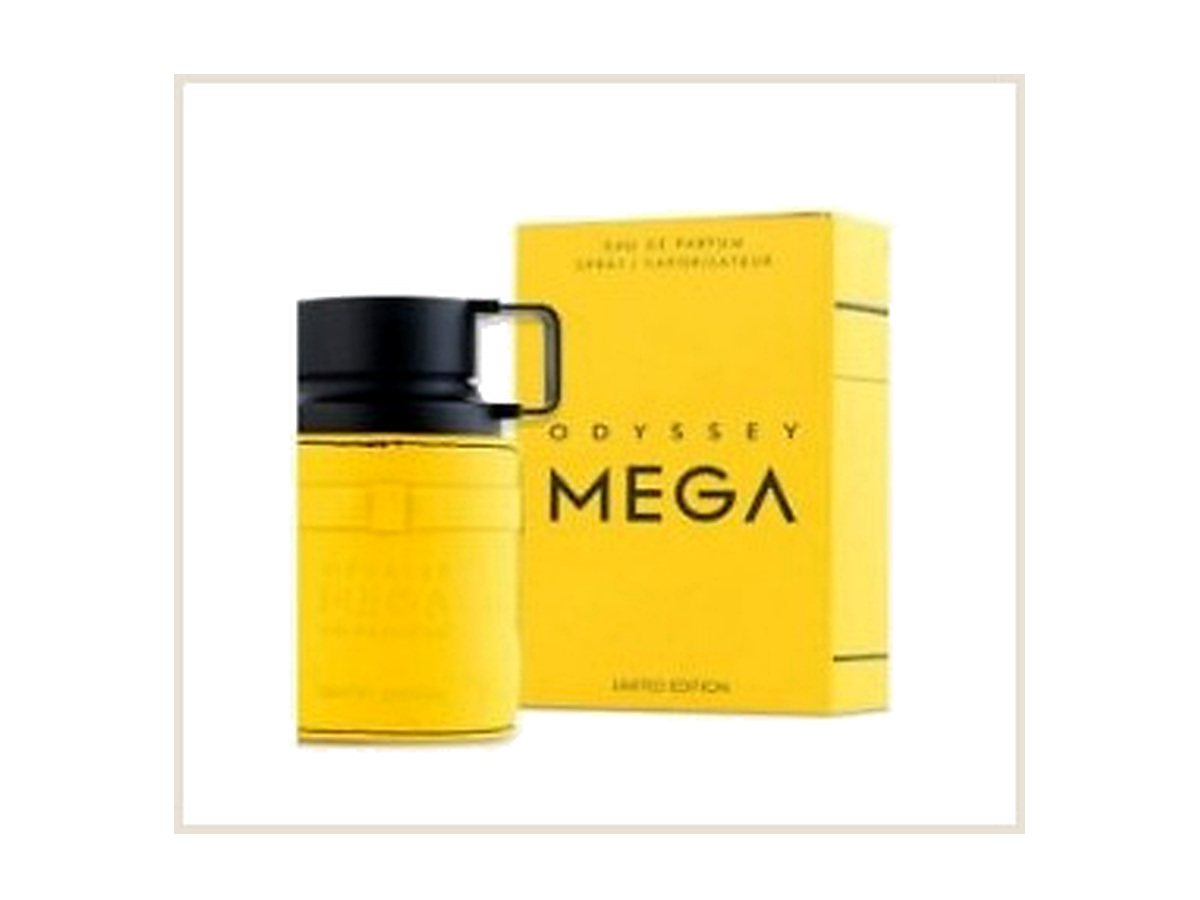
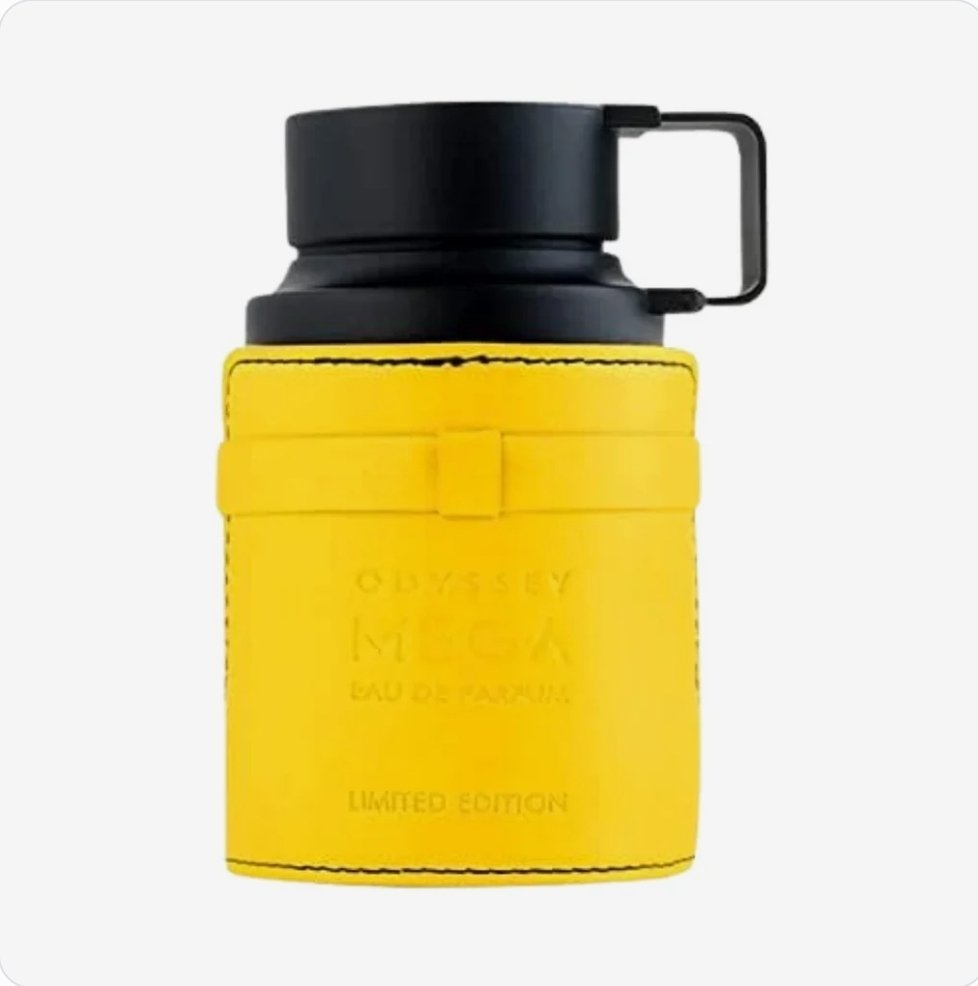
Replace Armaf Odyssey Mega photos with Boss's new shots

diff --git a/index.html b/index.html
@@ -698,7 +698,7 @@
         { name:'Lattafa Pride Peace & Love Perfume for Unisex', niche:'Lattafa Pride · Unisex · 3.4 oz EDP', direction:'Soft florals, creamy woods and amber', description:'A smooth, comforting blend of luminous florals, creamy woods and mellow amber. Refined and easygoing, with a softly enveloping trail.', category:'amber', images:[{src:'assets/product-lattafa-peace-love.jpg', alt:'Lattafa Pride Peace and Love bottle and box — clean packshot'}], price:34, decantPrice:9, originalPrice:40, featured:7, paymentLink:'https://buy.stripe.com/9B66oJ2Qx6jW1hE6Gvf7i1a'},
         { name:'Lattafa Yara Elixir Perfume for Women', niche:'Lattafa · Women · 3.4 oz EDP', direction:'Lush berries, vanilla and warm amber', description:'Juicy fruit and soft florals melt into creamy vanilla and warm amber. Sweet, playful and plush without losing its polished finish.', category:'sweet', images:[{src:'assets/lattafa-yara-elixir-1.jpg', alt:'Lattafa Yara Elixir bottle on a clean white background'},{src:'assets/lattafa-yara-elixir-2.jpg', alt:'Lattafa Yara Elixir bottle in a pink fragrance composition'},{src:'assets/lattafa-yara-elixir-3.jpg', alt:'Lattafa Yara Elixir bottle and box with berries, vanilla and caramel notes'},{src:'assets/lattafa-yara-elixir-4.jpg', alt:'Lattafa Yara Elixir bottle with berries, vanilla and caramel notes'}], price:39, decantPrice:10, originalPrice:44, featured:8, paymentLink:'https://buy.stripe.com/7sYfZjfDj0ZC3pMc0Pf7i1b' },
         { name:'Rasasi Hawas Fire Cologne for Men', niche:'Rasasi · Men · 3.38 oz EDP', direction:'Red fruits, aromatic freshness and woods', description:'A vibrant mix of juicy fruit and crisp aromatics gains depth from spice and polished woods. Fresh at first spray, then warmer and more intense.', category:'fresh', images:[{src:'assets/product-rasasi-hawas-fire.jpg', alt:'Rasasi Hawas Fire bottle and box — clean packshot'},{src:'assets/gallery-rasasi-hawas-fire-1.jpg', alt:'Rasasi Hawas Fire Cologne for Men — customer photo 1'},{src:'assets/gallery-rasasi-hawas-fire-2.jpg', alt:'Rasasi Hawas Fire Cologne for Men — customer photo 2'}], price:54, decantPrice:14, originalPrice:75, featured:9 , paymentLink:'https://buy.stripe.com/5kQfZj3UB5fS9Oa5Crf7i14'},
-        { name:'Armaf Odyssey Mega Cologne for Men', niche:'Armaf · Men · 3.4 oz EDP', direction:'Citrus, ginger and aromatic woods', description:'Zesty citrus and ginger create a brisk opening before aromatic herbs and clean woods take over. Modern, bright and made for everyday momentum.', category:'fresh', images:[{src:'assets/product-armaf-odyssey-mega.jpg', alt:'Armaf Odyssey Mega bottle and yellow box — clean packshot'}], price:31, decantPrice:8, originalPrice:38, featured:10 , paymentLink:'https://buy.stripe.com/eVqdRb0Ip7o0e4q7Kzf7i0Z'},
+        { name:'Armaf Odyssey Mega Cologne for Men', niche:'Armaf · Men · 3.4 oz EDP', direction:'Citrus, ginger and aromatic woods', description:'Zesty citrus and ginger create a brisk opening before aromatic herbs and clean woods take over. Modern, bright and made for everyday momentum.', category:'fresh', images:[{src:'assets/product-armaf-odyssey-mega.jpg', alt:'Armaf Odyssey Mega yellow leather bottle on a clean white background'},{src:'assets/product-armaf-odyssey-mega-2.jpg', alt:'Armaf Odyssey Mega bottle and yellow box on a clean white background'}], price:31, decantPrice:8, originalPrice:38, featured:10 , paymentLink:'https://buy.stripe.com/eVqdRb0Ip7o0e4q7Kzf7i0Z'},
         { name:'Lattafa Maison Alhambra Delilah Perfume for Women', niche:'Maison Alhambra · Women · 3.4 oz EDP', direction:'Rose, tart fruit and soft vanilla musk', description:'Tart fruit brightens a romantic rose heart, while vanilla and musk soften the finish. Airy, graceful and quietly sweet.', category:'fresh', images:[{src:'assets/product-maison-alhambra-delilah.jpg', alt:'Maison Alhambra Delilah pink bottle and box on a clean white background'},{src:'assets/product-maison-alhambra-delilah-2.jpg', alt:'Maison Alhambra Delilah pink bottle and box, alternate angle'}], price:28, decantPrice:7, originalPrice:34, featured:11 , paymentLink:'https://buy.stripe.com/dRmeVf8aR8s43pM8ODf7i1c'},
         { name:'Barakkat Satin Oud Perfume for Unisex', niche:'Barakkat · Unisex · 3.4 oz EDP', direction:'Velvety rose, oud and vanilla amber', description:'Velvety rose meets dark oud and a warm vanilla-amber base. Opulent and smooth, with the kind of depth that suits evenings and special occasions.', category:'woody', images:[{src:'assets/product-barakkat-satin-oud.jpg', alt:'Barakkat Satin Oud bottle in a styled petal and oud flat-lay'},{src:'assets/product-barakkat-satin-oud-2.jpg', alt:'Barakkat Satin Oud bottle with floating ingredients composition'},{src:'assets/product-barakkat-satin-oud-3.jpg', alt:'Barakkat Satin Oud bottle top-down with cap off'},{src:'assets/product-barakkat-satin-oud-4.jpg', alt:'Barakkat Satin Oud bottle on warm stones with oud wood'}], price:22, decantPrice:6, originalPrice:27, featured:12 , paymentLink:'https://buy.stripe.com/7sY14pfDjeQs7G2c0Pf7i1f'},
         { name:'Lattafa Angham Perfume for Unisex', niche:'Lattafa · Unisex · 3.4 oz EDP', direction:'Spiced vanilla, praline and tonka', description:'A warm gourmand profile built around sweet spice, creamy vanilla and nutty praline. Cozy and expressive, with a smooth tonka-rich finish.', category:'sweet', images:[{src:'assets/product-lattafa-angham.jpg', alt:'Lattafa Angham bottle and box on a clean white background'},{src:'assets/product-lattafa-angham-2.jpg', alt:'Lattafa Angham bottle on a clean white background'},{src:'assets/product-lattafa-angham-3.jpg', alt:'Lattafa Angham bottle in warm sunlight'}], price:34, decantPrice:9, originalPrice:40, featured:13 , paymentLink:'https://buy.stripe.com/6oUfZjgHncIk5xUgh5f7i1e'},
